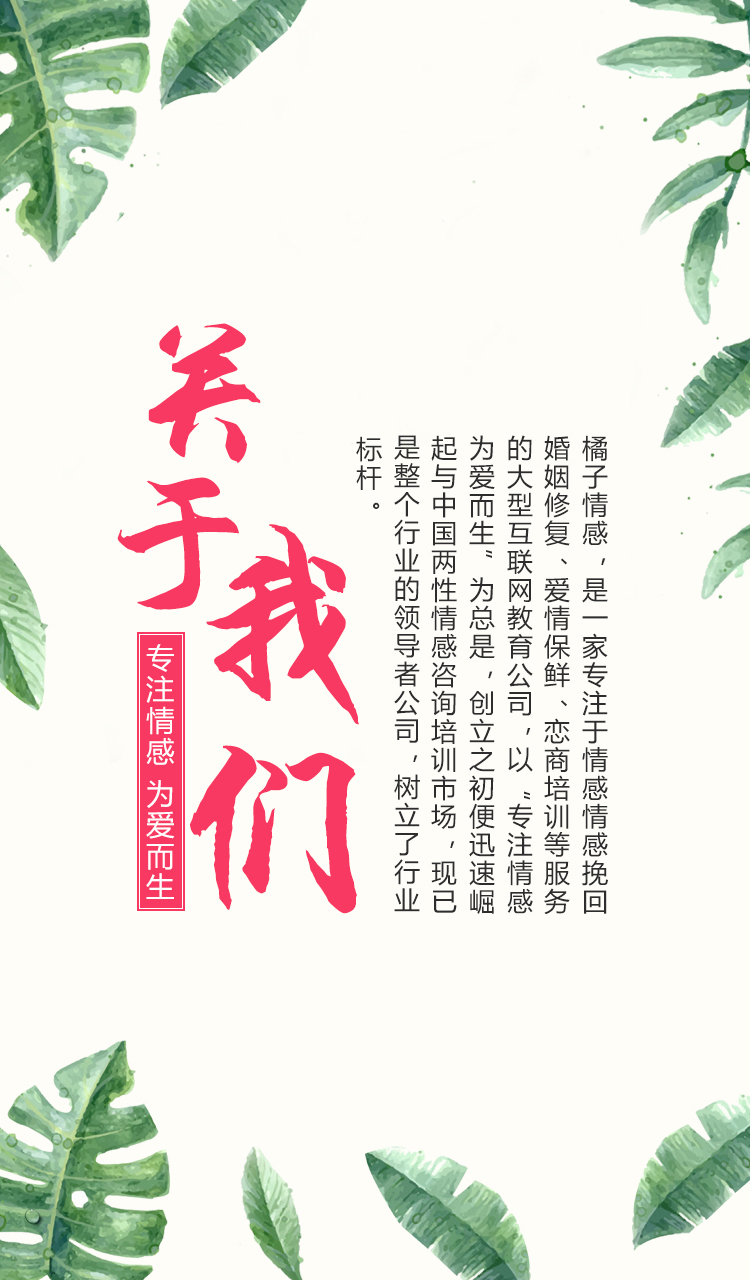
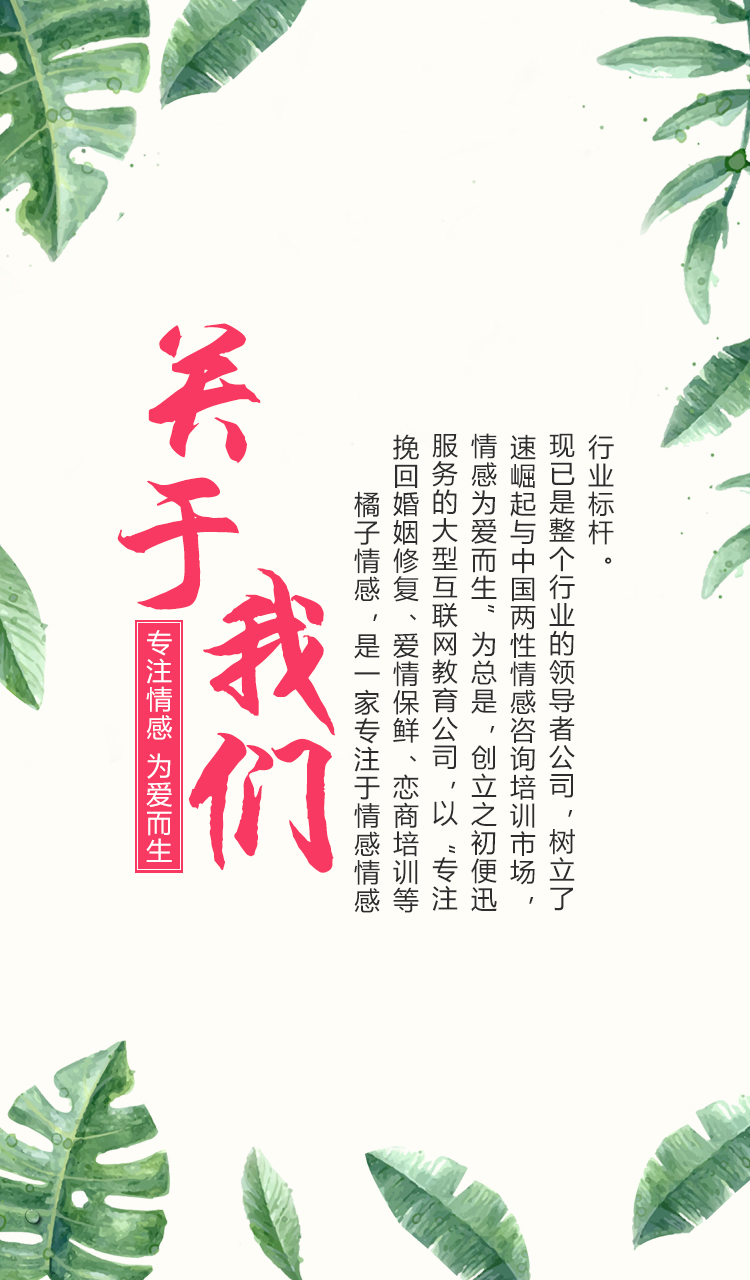
细节修改

Changed region(s): [[0.1533, 0.3125, 0.828, 0.7188]]

diff --git a/wechat/about_us.html b/wechat/about_us.html
@@ -57,36 +57,42 @@
 						<p class="indent">
 							嘉伟导师携手业内众多顶尖导师，在香港、澳门、台湾等地，开设巡讲培训班，将行业推至更高的高度。深化社会使命感，收到各界认可。
 						</p>
+						<img src="images/about_us/2012.jpg" />
 						<p class="year p2">
 							2013
 						</p>
 						<p class="indent">
 							设立行业标准，开设了全国情感导师培植计划，统一规范了从业资格，提高整体行业水平。被众多主流媒争相报道。
 						</p>
+						<img src="images/about_us/2013.png" />
 						<p class="year p3">
 							2014
 						</p>
 						<p class="indent">
 							获得山东省心理讲课教育咨询中心授权单位资格。在解决情感心理健康方面，橘子情感不断不遗余力，实现自己的社会价值。
 						</p>
+						<img src="images/about_us/2014.png" />
 						<p class="year p4">
 							2015
 						</p>
 						<p class="indent">
 							设立行业标准，开设了全国情感导师培植计划，统一规范了从业资格，提高整体行业水平。被众多主流媒争相报道。
 						</p>
+						<img src="images/about_us/2015.png" />
 						<p class="year p5">
 							2016
 						</p>
 						<p class="indent">
 							获得家庭婚恋服务协会理事单位资格。以信仰幸福、学会感恩的态度，帮助数万名用户，重获幸福。并且受中美澳联合国际医学研究院邀请，开设《幸福讲座》。
 						</p>
+						<img class="img5" src="images/about_us/2016.png" />
 						<p class="year last">
 							2017
 						</p>
 						<p class="indent">
 							荣获十大杰出诚信企业，橘子情感一直以做有良心、有社会责任感的阳光企业为方向，客户好评率高达98.5%，引领着整个行业的发展方向。
 						</p>
+						<img src="images/about_us/2017.png" />
 					</div>
 					<div class="btn">
 						<a href="##">查看全部>>></a>

diff --git a/wechat/css/about_us.css b/wechat/css/about_us.css
@@ -20,7 +20,6 @@
     background: url("../images/save-love-plan/title-line.png") no-repeat center center;
     -webkit-background-size: cover;
     background-size: cover;
-
     width: .37rem;
     height: .02rem;
 }
@@ -99,11 +98,12 @@
 }
 
 .module-02-bg{
-	background: url(../images/about_us/development_left.png) no-repeat .5rem .05rem;
+	background: url(../images/about_us/development_left.png) no-repeat .3rem 0.01rem;
 	-webkit-background-size: cover;
-    background-size: .36rem 10.09rem;
+    /*background-size: .36rem 25.9rem;*/
+    background-size: .4rem 26.3rem;
     width: 100%;
-    height: 5.3rem;
+    height: 9.5rem;
     margin-top: .3rem;
     overflow: hidden;
 }
@@ -115,6 +115,9 @@
 	width: 77%;
 	
 }
+.module-02-bg img{
+	margin-left: 1.1rem;
+}
 .module-02-bg .indent{
 	height: 1.50rem;
 }
@@ -122,22 +125,25 @@
 	height: .4rem;	
 }
 .module-02-bg .p1{
-	margin-top: .06rem;
+	margin-top: -.01rem;
 }
 .module-02-bg .p2{
-	margin-top: -0.05rem;
+	margin-top: 0.4rem;
 }
 .module-02-bg .p3{
-	margin-top: -0.01rem;
+	margin-top: 0.45rem;
 }
 .module-02-bg .p4{
-	margin-top: -0.05rem;
+	margin-top: 0.45rem;
 }
 .module-02-bg .p5{
-	margin-top: -0.01rem;
+	margin-top: 0.5rem;
+}
+.img5{
+	margin-top: .3rem;
 }
 .module-02-bg .year.last{
-	margin-top: .35rem;
+	margin-top: .2rem;
 }
 
 .btn{
@@ -148,8 +154,8 @@
 	margin-left: .6rem;
 }
 .btn a{
-	font-size: .22rem;
-	color: #9d9d9d;
+	font-size: .26rem;
+	color: #2d2d2d;
 	
 }
 .module3{

diff --git a/wechat/js/about_us.js b/wechat/js/about_us.js
@@ -1,6 +1,6 @@
 $(function(){
 	$(".btn a").click(function(){
-		$(".module-02-bg").css({"height":"11.5rem","overflow":""});
+		$(".module-02-bg").css({"height":"31rem","overflow":""});
 		$(".btn").hide();
 	});
 })
